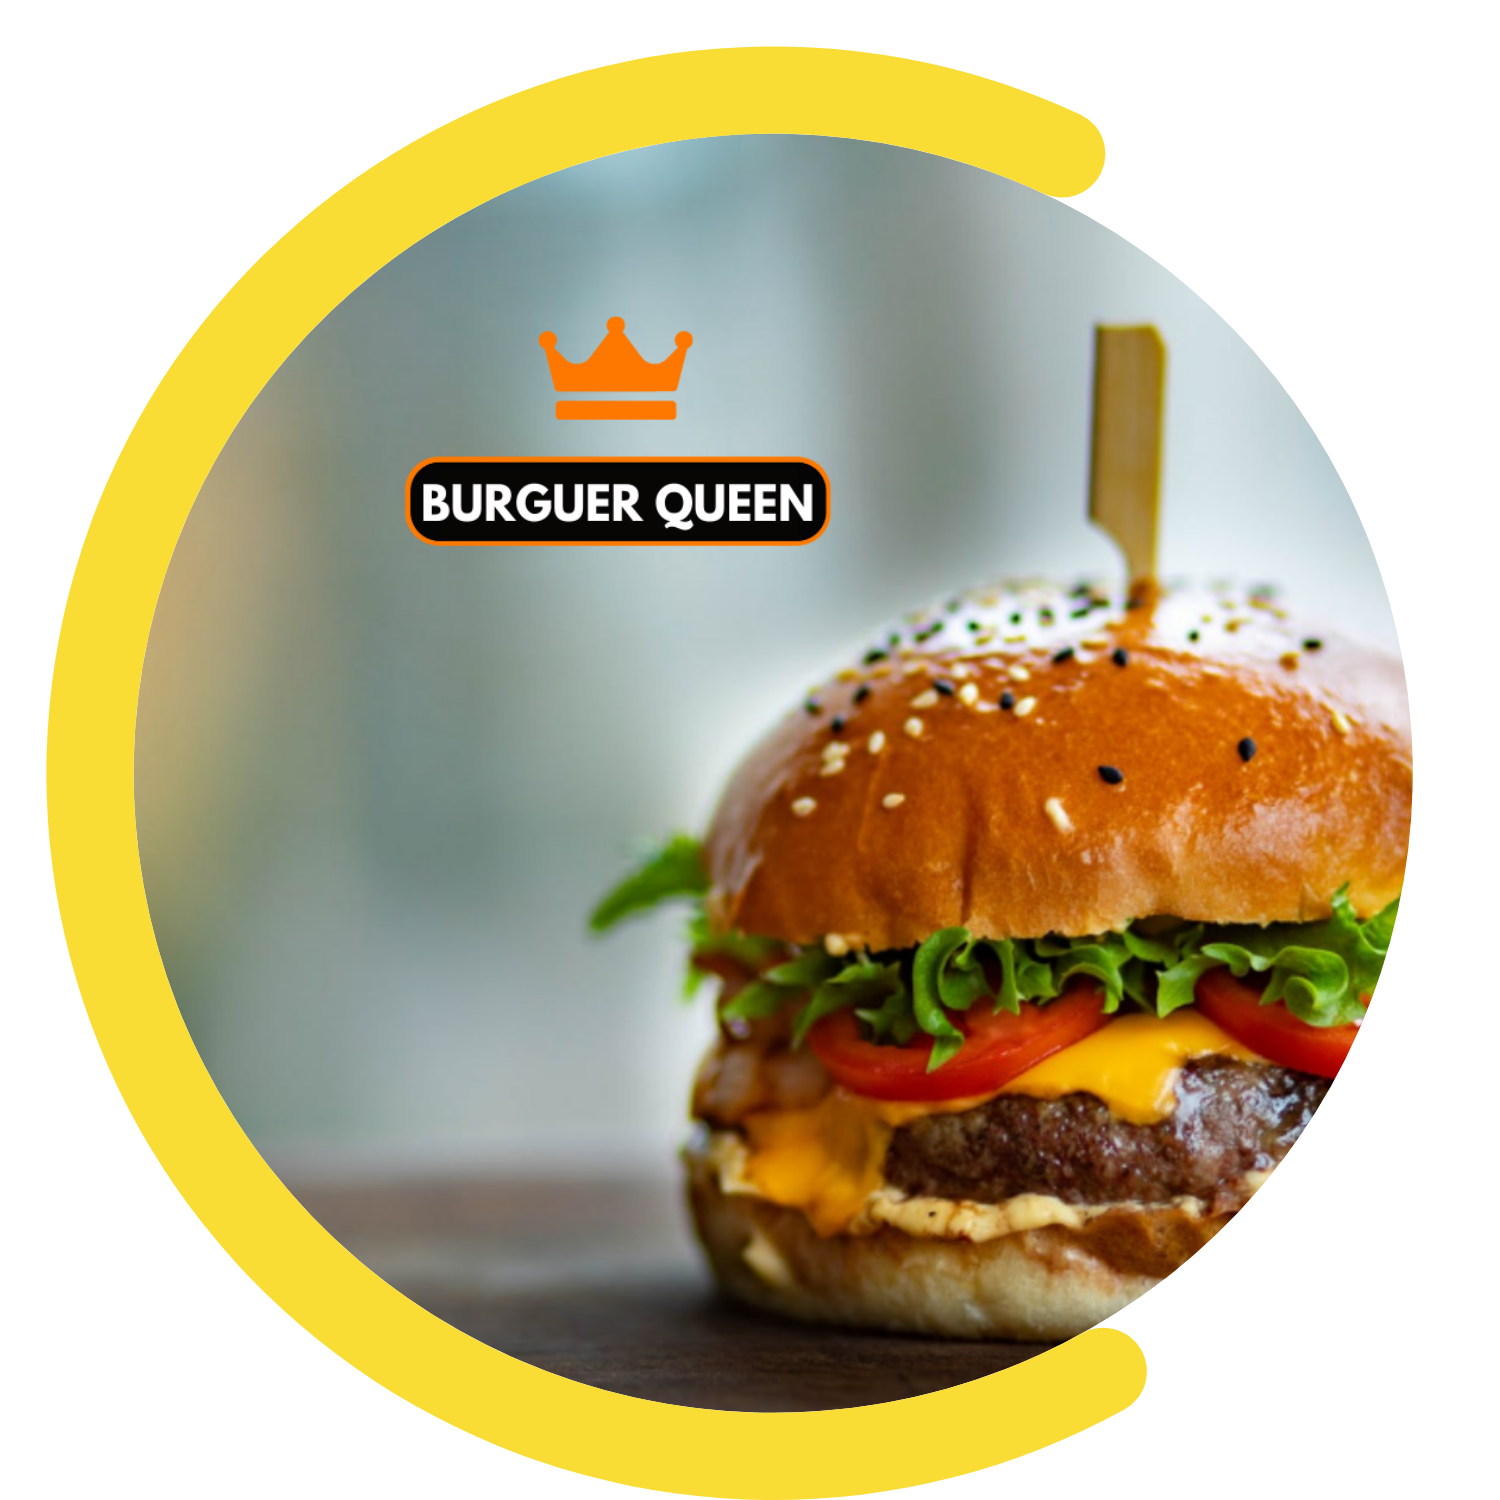
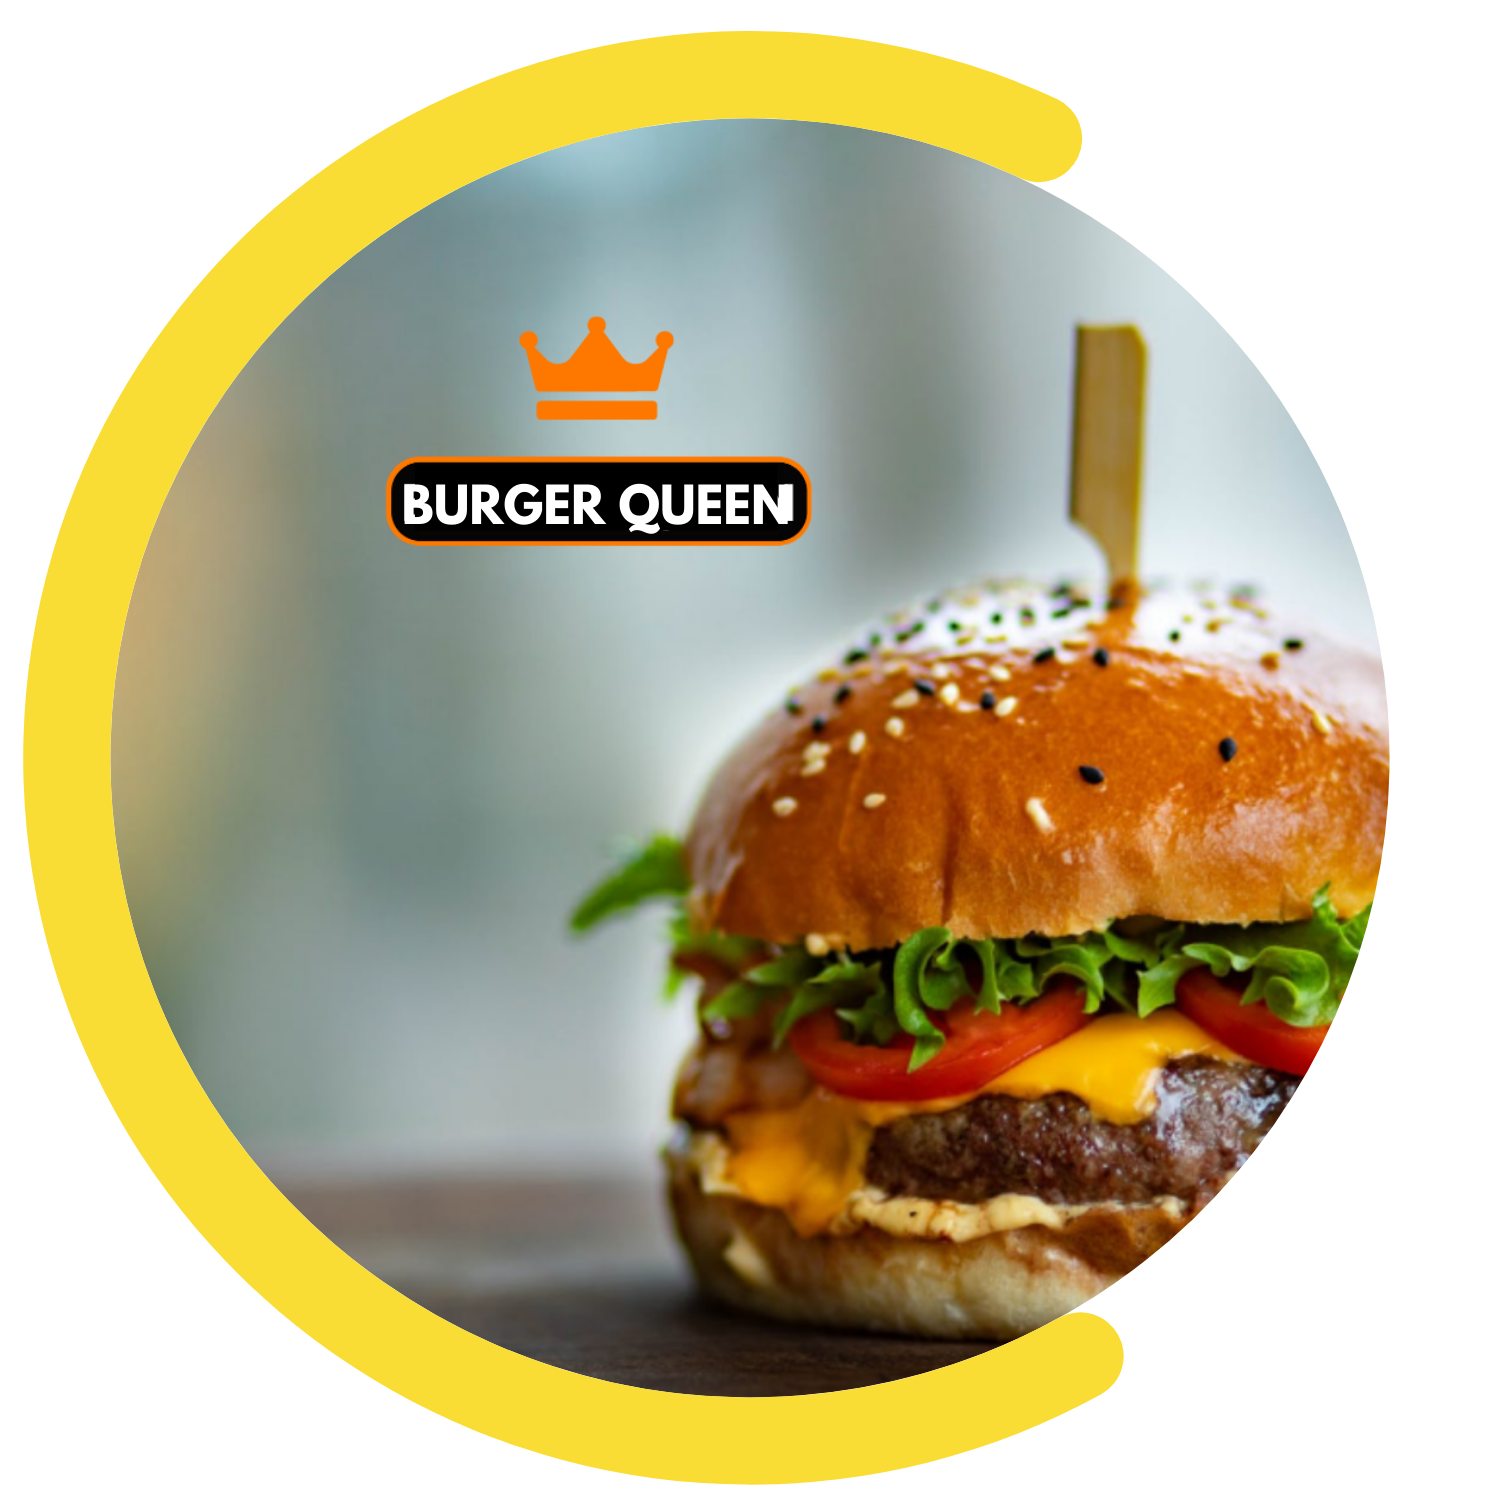
responsive home

diff --git a/src/style.css b/src/style.css
@@ -430,3 +430,29 @@ p {
     color: #9C1B7E;
 }
 
+/* formato responsive para table */  
+@media screen and (max-width: 768px) and (min-width: 415px) {
+  .conoceme{
+    margin: 775px 32px 10px 672px;
+    width: 268px;
+    height: 72px;
+    font-size: 85px;
+  }
+
+  #containerHome{
+    width: 542vh;
+    height: 379vh;
+  }
+
+  #logo {
+    margin: 688px 90px;
+    width: 326vw;
+    height: 215vh;
+  }
+}
+
+/* formato responsive para celular galaxy 8 plus */
+@media screen and (max-width: 415px) {
+
+
+}
